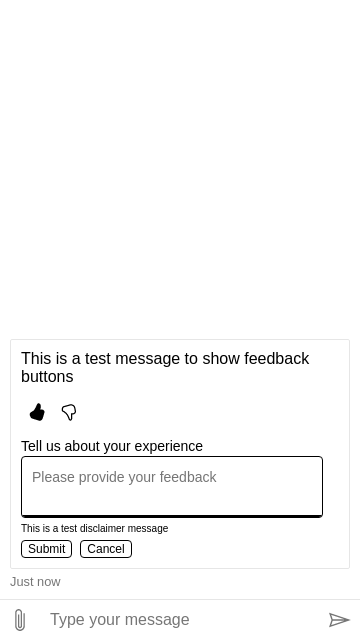
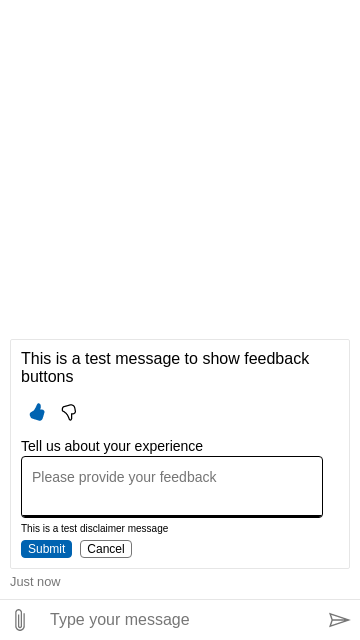
update snapshots

Changed region(s): [[0.0611, 0.8438, 0.2444, 0.875], [0.3361, 0.8438, 0.3667, 0.875], [0.0917, 0.625, 0.1222, 0.6562]]

diff --git a/packages/component/src/Styles/useCustomPropertiesClassName.ts b/packages/component/src/Styles/useCustomPropertiesClassName.ts
@@ -31,10 +31,12 @@ export default function useCustomPropertiesClassName() {
       fontColorPrimary,
       fontColorSecondary,
       primaryButtonBackgroundColor,
+      primaryButtonFontColor,
       primaryButtonBackgroundColorOnHover,
       primaryButtonBackgroundColorOnActive,
-      primaryButtonBackgroundCoorOnDisabled,
+      primaryButtonBackgroundColorOnDisabled,
       secondaryButtonBackgroundColor,
+      secondaryButtonFontColor,
       secondaryButtonBackgroundColorOnHover,
       secondaryButtonBorderColor,
       textBoxBackgroundColor,
@@ -80,13 +82,13 @@ export default function useCustomPropertiesClassName() {
   ${CustomPropertyNames.FeedbackFormTitleColor}: ${fontColorPrimary};
   ${CustomPropertyNames.FeedbackFormDisclaimerColor}: ${fontColorSecondary};
   ${CustomPropertyNames.FeedbackFormSubmitButtonColor}: ${primaryButtonBackgroundColor};
-  ${CustomPropertyNames.FeedbackFormSubmitButtonFontColor}: ${fontColorPrimary};
+  ${CustomPropertyNames.FeedbackFormSubmitButtonFontColor}: ${primaryButtonFontColor};
   ${CustomPropertyNames.FeedbackFormSubmitButtonHoverColor}: ${primaryButtonBackgroundColorOnHover};
   ${CustomPropertyNames.FeedbackFormSubmitButtonActiveColor}: ${primaryButtonBackgroundColorOnActive};
-  ${CustomPropertyNames.FeedbackFormSubmitButtonDisabledColor}: ${primaryButtonBackgroundCoorOnDisabled};
+  ${CustomPropertyNames.FeedbackFormSubmitButtonDisabledColor}: ${primaryButtonBackgroundColorOnDisabled};
   ${CustomPropertyNames.FeedbackFormCancelButtonColor}: ${secondaryButtonBackgroundColor};
   ${CustomPropertyNames.FeedbackFormCancelButtonBorderColor}: ${secondaryButtonBorderColor};
-  ${CustomPropertyNames.FeedbackFormCancelButtonFontColor}: ${fontColorPrimary};
+  ${CustomPropertyNames.FeedbackFormCancelButtonFontColor}: ${secondaryButtonFontColor};
   ${CustomPropertyNames.FeedbackFormCancelButtonHoverColor}: ${secondaryButtonBackgroundColorOnHover};
   ${CustomPropertyNames.FeedbackFormSendBoxBackgroundColor}: ${textBoxBackgroundColor};
   ${CustomPropertyNames.FeedbackFormSendBoxBorderColor}: ${textBoxBorderColor};

diff --git a/packages/api/src/defaultStyleOptions.ts b/packages/api/src/defaultStyleOptions.ts
@@ -310,18 +310,20 @@ const DEFAULT_OPTIONS: Required<StyleOptions> = {
 
   fontColorPrimary: 'black',
   fontColorSecondary: 'black',
-  primaryButtonBackgroundColor: '',
-  primaryButtonBackgroundColorOnHover: '',
-  primaryButtonBackgroundColorOnActive: '',
-  primaryButtonBackgroundCoorOnDisabled: '',
-  secondaryButtonBackgroundColor: '',
-  secondaryButtonBackgroundColorOnHover: '',
-  secondaryButtonBorderColor: '',
-  textBoxBackgroundColor: '',
-  textBoxBorderColor: '',
-  textBoxBorderColorOnFocus: '',
-  textBoxBorderColorOnActive: '',
-  textBoxTextColor: '',
+  primaryButtonBackgroundColor: DEFAULT_ACCENT,
+  primaryButtonFontColor: 'white',
+  primaryButtonBackgroundColorOnHover: DEFAULT_ACCENT,
+  primaryButtonBackgroundColorOnActive: DEFAULT_ACCENT,
+  primaryButtonBackgroundColorOnDisabled: DEFAULT_ACCENT,
+  secondaryButtonFontColor: 'black',
+  secondaryButtonBackgroundColor: 'White',
+  secondaryButtonBackgroundColorOnHover: 'White',
+  secondaryButtonBorderColor: DEFAULT_SUBTLE,
+  textBoxBackgroundColor: 'White',
+  textBoxBorderColor: 'black',
+  textBoxBorderColorOnFocus: 'black',
+  textBoxBorderColorOnActive: 'black',
+  textBoxTextColor: 'black',
   textBoxMinHeight: 40,
   textBoxMinWidth: 280,
 

diff --git a/packages/api/src/StyleOptions.ts b/packages/api/src/StyleOptions.ts
@@ -946,12 +946,14 @@ type StyleOptions = {
   fontColorPrimary?: string;
   fontColorSecondary?: string;
   primaryButtonBackgroundColor?: string;
+  primaryButtonFontColor?: string;
   primaryButtonBackgroundColorOnHover?: string;
   primaryButtonBackgroundColorOnActive?: string;
-  primaryButtonBackgroundCoorOnDisabled?: string;
+  primaryButtonBackgroundColorOnDisabled?: string;
   secondaryButtonBackgroundColor?: string;
   secondaryButtonBackgroundColorOnHover?: string;
   secondaryButtonBorderColor?: string;
+  secondaryButtonFontColor?: string;
   textBoxBackgroundColor?: string;
   textBoxBorderColor?: string;
   textBoxBorderColorOnFocus?: string;

diff --git a/packages/core/src/types/WebChatActivity.ts b/packages/core/src/types/WebChatActivity.ts
@@ -115,6 +115,7 @@ type ChannelData<SendStatus extends SupportedSendStatus | undefined, Type extend
 
           feedbackLoop?: {
             type: 'default';
+            disclaimer?: string;
           };
         }
       : Record<any, any>)
